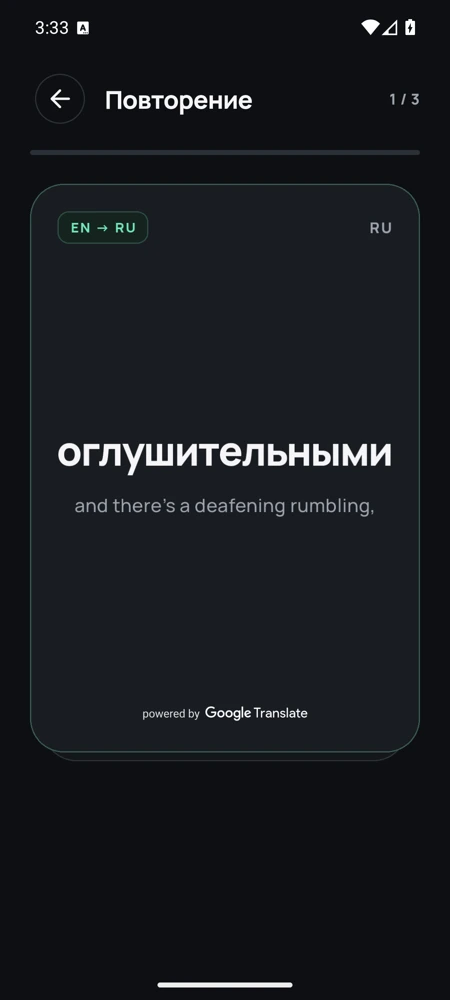
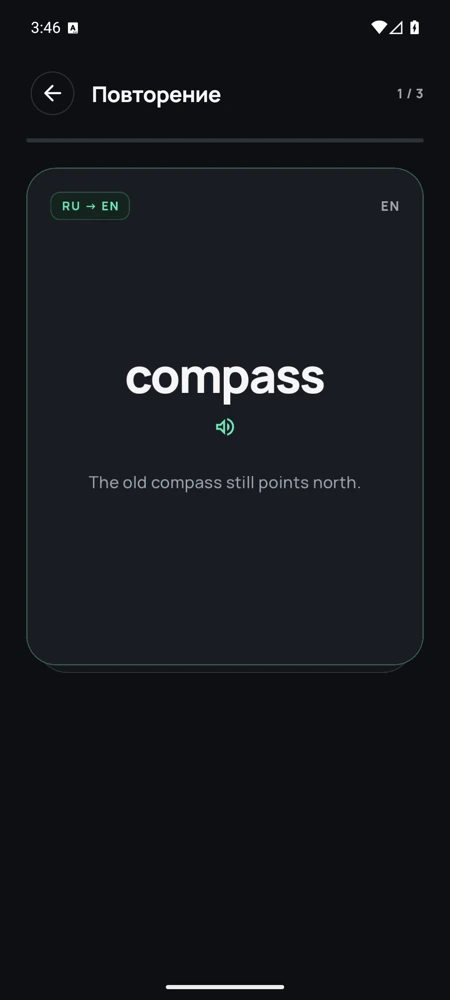
Add English pronunciation to review cards

diff --git a/lib/src/review_screen.dart b/lib/src/review_screen.dart
@@ -1,3 +1,4 @@
+import 'dart:async';
 import 'dart:math' as math;
 
 import 'package:flutter/material.dart';
@@ -11,9 +12,17 @@ import 'lexicon.dart';
 final _wordSeparator = RegExp(r'\s+');
 
 class ReviewScreen extends StatefulWidget {
-  const ReviewScreen({super.key, required this.queue, required this.onGrade});
+  const ReviewScreen({
+    super.key,
+    required this.queue,
+    required this.onGrade,
+    required this.onSpeak,
+    required this.onStopSpeech,
+  });
   final List<ReviewCard> queue;
   final Future<void> Function(ReviewCard, Grade) onGrade;
+  final Future<void> Function(String) onSpeak;
+  final Future<void> Function() onStopSpeech;
 
   @override
   State<ReviewScreen> createState() => _ReviewScreenState();
@@ -28,11 +37,13 @@ class _ReviewScreenState extends State<ReviewScreen>
   late final _slide = AnimationController.unbounded(vsync: this);
   int _index = 0;
   bool _submitting = false;
+  bool _speaking = false;
 
   bool get _revealComplete => _flip.isCompleted;
 
   @override
   void dispose() {
+    _stopSpeech();
     _flip.dispose();
     _slide.dispose();
     super.dispose();
@@ -40,12 +51,40 @@ class _ReviewScreenState extends State<ReviewScreen>
 
   void _reveal() {
     if (_submitting || _flip.value > 0) return;
+    _stopSpeech();
     HapticFeedback.selectionClick();
     if (MediaQuery.disableAnimationsOf(context)) {
       _flip.value = 1;
     } else {
       _flip.forward();
     }
+  }
+
+  Future<void> _speak(String word) async {
+    if (_speaking || _submitting || _flip.isAnimating) return;
+    setState(() => _speaking = true);
+    try {
+      await widget.onSpeak(word).timeout(const Duration(seconds: 15));
+    } on PlatformException catch (error) {
+      if (!mounted) return;
+      final message = switch (error.code) {
+        'TTS_VOICE' => 'Установите английский голос в настройках Android.',
+        'TTS_UNAVAILABLE' => 'Включите синтез речи в настройках Android.',
+        _ => 'Не удалось озвучить слово. Попробуйте ещё раз.',
+      };
+      notifyUser(context, message);
+    } on TimeoutException {
+      _stopSpeech();
+      if (mounted) {
+        notifyUser(context, 'Озвучка не запустилась. Попробуйте ещё раз.');
+      }
+    } finally {
+      if (mounted) setState(() => _speaking = false);
+    }
+  }
+
+  void _stopSpeech() {
+    if (_speaking) widget.onStopSpeech().ignore();
   }
 
   void _settle(double velocity) {
@@ -79,6 +118,7 @@ class _ReviewScreenState extends State<ReviewScreen>
 
   Future<void> _rate(Grade grade, double width, [double velocity = 0]) async {
     if (_submitting || !_revealComplete) return;
+    _stopSpeech();
     final card = widget.queue[_index];
     setState(() => _submitting = true);
     HapticFeedback.lightImpact();
@@ -279,6 +319,11 @@ class _ReviewScreenState extends State<ReviewScreen>
                             child: _CardFace(
                               card: card,
                               back: back,
+                              speaking: _speaking,
+                              onSpeak:
+                                  _speaking || _submitting || _flip.isAnimating
+                                  ? null
+                                  : () => _speak(card.entry.english),
                               highlight: (offset / width).abs().clamp(0.0, .5),
                               positive: offset > 0,
                             ),
@@ -314,11 +359,15 @@ class _CardFace extends StatelessWidget {
   const _CardFace({
     required this.card,
     required this.back,
+    required this.speaking,
+    required this.onSpeak,
     required this.highlight,
     required this.positive,
   });
   final ReviewCard card;
   final bool back;
+  final bool speaking;
+  final VoidCallback? onSpeak;
   final double highlight;
   final bool positive;
 
@@ -386,6 +435,19 @@ class _CardFace extends StatelessWidget {
                         ],
                       ),
                     ),
+                    if (code == 'EN')
+                      IconButton(
+                        tooltip: 'Озвучить английское слово',
+                        onPressed: onSpeak,
+                        color: mint,
+                        disabledColor: muted,
+                        icon: Icon(
+                          speaking
+                              ? Icons.volume_up_rounded
+                              : Icons.volume_up_outlined,
+                          size: 22,
+                        ),
+                      ),
                     if (back && card.entry.context.isNotEmpty) ...[
                       const SizedBox(height: 15),
                       Text(

diff --git a/android/app/src/main/kotlin/app/thinkcaps/android/EnglishSpeech.kt b/android/app/src/main/kotlin/app/thinkcaps/android/EnglishSpeech.kt
@@ -1,0 +1,113 @@
+package app.thinkcaps.android
+
+import android.content.Context
+import android.os.Handler
+import android.os.Looper
+import android.speech.tts.TextToSpeech
+import android.speech.tts.UtteranceProgressListener
+import io.flutter.plugin.common.MethodChannel
+import java.util.Locale
+
+internal class EnglishSpeech(private val context: Context) {
+    private data class Request(val word: String, val id: String, val result: MethodChannel.Result)
+
+    private val main = Handler(Looper.getMainLooper())
+    private var engine: TextToSpeech? = null
+    private var ready = false
+    private var active: Request? = null
+    private var sequence = 0
+
+    fun speak(word: String?, result: MethodChannel.Result) {
+        if (word.isNullOrBlank()) {
+            result.error("TTS_PLAYBACK", null, null)
+            return
+        }
+        stop()
+        active = Request(word, (++sequence).toString(), result)
+        if (ready) {
+            play()
+        } else if (engine == null) {
+            engine = TextToSpeech(context) { status ->
+                // An initialization failure may arrive during construction.
+                main.post { initialized(status) }
+            }
+        }
+    }
+
+    private fun initialized(status: Int) {
+        val tts = engine ?: return
+        if (status != TextToSpeech.SUCCESS ||
+            tts.setOnUtteranceProgressListener(listener) != TextToSpeech.SUCCESS
+        ) {
+            active?.let { finish(it.id, "TTS_UNAVAILABLE") }
+            close()
+            return
+        }
+        ready = true
+        play()
+    }
+
+    private fun play() {
+        val request = active ?: return
+        val tts = engine ?: return
+        if (tts.voice?.locale?.language != Locale.ENGLISH.language &&
+            tts.setLanguage(Locale.US) < TextToSpeech.LANG_AVAILABLE &&
+            tts.setLanguage(Locale.ENGLISH) < TextToSpeech.LANG_AVAILABLE
+        ) {
+            finish(request.id, "TTS_VOICE")
+            return
+        }
+        if (tts.speak(request.word, TextToSpeech.QUEUE_FLUSH, null, request.id) !=
+            TextToSpeech.SUCCESS
+        ) {
+            finish(request.id, "TTS_PLAYBACK")
+        }
+    }
+
+    private val listener = object : UtteranceProgressListener() {
+        override fun onStart(utteranceId: String) = Unit
+
+        override fun onDone(utteranceId: String) {
+            main.post { finish(utteranceId) }
+        }
+
+        override fun onStop(utteranceId: String, interrupted: Boolean) {
+            main.post { finish(utteranceId) }
+        }
+
+        @Deprecated("Required for engines that use the legacy error callback")
+        override fun onError(utteranceId: String) {
+            onError(utteranceId, TextToSpeech.ERROR_SYNTHESIS)
+        }
+
+        override fun onError(utteranceId: String, errorCode: Int) {
+            val code = if (errorCode == TextToSpeech.ERROR_NOT_INSTALLED_YET) {
+                "TTS_VOICE"
+            } else {
+                "TTS_PLAYBACK"
+            }
+            main.post { finish(utteranceId, code) }
+        }
+    }
+
+    private fun finish(id: String, error: String? = null) {
+        val request = active?.takeIf { it.id == id } ?: return
+        active = null
+        if (error == null) request.result.success(null)
+        else request.result.error(error, null, null)
+    }
+
+    fun stop() {
+        val request = active ?: return
+        active = null
+        if (ready) engine?.stop()
+        request.result.success(null)
+    }
+
+    fun close() {
+        stop()
+        ready = false
+        engine?.shutdown()
+        engine = null
+    }
+}

diff --git a/test/review_test.dart b/test/review_test.dart
@@ -17,16 +17,24 @@ void main() {
       reverse: fresh,
     );
     final ratings = <(Direction, Grade)>[];
+    final spoken = <String>[];
+    final speakButton = find.byTooltip('Озвучить английское слово');
     await tester.pumpWidget(
       MaterialApp(
         theme: appTheme(),
         home: ReviewScreen(
           queue: dueCards([entry], fresh.due),
           onGrade: (card, grade) async => ratings.add((card.direction, grade)),
+          onSpeak: (word) async => spoken.add(word),
+          onStopSpeech: () async {},
         ),
       ),
     );
     expect(find.text('curiosity'), findsOneWidget);
+    expect(find.text('любопытство'), findsNothing);
+    await tester.tap(speakButton);
+    await tester.pumpAndSettle();
+    expect(spoken, ['curiosity']);
     expect(find.text('любопытство'), findsNothing);
     await tester.fling(find.text('curiosity'), const Offset(280, 0), 650);
     await tester.pumpAndSettle();
@@ -35,6 +43,7 @@ void main() {
     await tester.pumpAndSettle();
     expect(find.text('любопытство'), findsOneWidget);
     expect(find.text(entry.context), findsOneWidget);
+    expect(speakButton, findsNothing);
     expect(find.byType(FilledButton), findsNothing);
     expect(find.byType(OutlinedButton), findsNothing);
     expect(find.textContaining('через'), findsNothing);
@@ -44,8 +53,12 @@ void main() {
     expect(find.text('RU → EN'), findsOneWidget);
     expect(find.text('любопытство'), findsOneWidget);
     expect(find.text('curiosity'), findsNothing);
+    expect(speakButton, findsNothing);
     await tester.tap(find.text('Показать перевод'));
     await tester.pumpAndSettle();
+    await tester.tap(speakButton);
+    await tester.pumpAndSettle();
+    expect(spoken, ['curiosity', 'curiosity']);
     await tester.fling(find.text('curiosity'), const Offset(-280, 0), 950);
     await tester.pumpAndSettle();
     expect(ratings, [
@@ -81,6 +94,8 @@ void main() {
         home: ReviewScreen(
           queue: [ReviewCard(entry, Direction.enToRu)],
           onGrade: (_, _) async {},
+          onSpeak: (_) async {},
+          onStopSpeech: () async {},
         ),
       ),
     );

diff --git a/android/app/src/main/kotlin/app/thinkcaps/android/MainActivity.kt b/android/app/src/main/kotlin/app/thinkcaps/android/MainActivity.kt
@@ -32,6 +32,7 @@ class MainActivity : FlutterActivity() {
     private var channel: MethodChannel? = null
     private var scanResult: MethodChannel.Result? = null
     private var modelDownload: Task<Void>? = null
+    private var speech: EnglishSpeech? = null
     private var translatorUsed = false
     private var recognizerUsed = false
 
@@ -47,6 +48,14 @@ class MainActivity : FlutterActivity() {
                 }
                 "scanScreenshot" -> openScreenshot(result)
                 "translate" -> translate(call.arguments as String, result)
+                "speakEnglish" -> {
+                    val voice = speech ?: EnglishSpeech(applicationContext).also { speech = it }
+                    voice.speak(call.arguments as? String, result)
+                }
+                "stopSpeech" -> {
+                    speech?.stop()
+                    result.success(null)
+                }
                 "loadEntries" -> disk(result) { database.entries() }
                 "saveEntry" -> disk(result) { database.save(call.arguments as Map<*, *>); null }
                 "removeEntry" -> disk(result) { database.remove(call.arguments as Number); null }
@@ -151,8 +160,14 @@ class MainActivity : FlutterActivity() {
         }
     }
 
+    override fun onPause() {
+        speech?.stop()
+        super.onPause()
+    }
+
     override fun onDestroy() {
         channel?.setMethodCallHandler(null)
+        speech?.close()
         if (translatorUsed) translator.close()
         if (recognizerUsed) recognizer.close()
         executor.execute { database.close() }

diff --git a/lib/main.dart b/lib/main.dart
@@ -150,7 +150,12 @@ class _HomeState extends State<_Home> with WidgetsBindingObserver {
     if (queue.isEmpty) return;
     await Navigator.of(context).push<void>(
       MaterialPageRoute(
-        builder: (_) => ReviewScreen(queue: queue, onGrade: _platform.grade),
+        builder: (_) => ReviewScreen(
+          queue: queue,
+          onGrade: _platform.grade,
+          onSpeak: _platform.speakEnglish,
+          onStopSpeech: _platform.stopSpeech,
+        ),
       ),
     );
     if (mounted) await _load();

diff --git a/lib/src/platform.dart b/lib/src/platform.dart
@@ -21,6 +21,11 @@ class ThinkCapsPlatform {
   Future<String?> scanScreenshot() =>
       _channel.invokeMethod<String>('scanScreenshot');
 
+  Future<void> speakEnglish(String word) =>
+      _channel.invokeMethod<void>('speakEnglish', word);
+
+  Future<void> stopSpeech() => _channel.invokeMethod<void>('stopSpeech');
+
   Future<String> translate(String word) async {
     final result = await _channel
         .invokeMethod<String>('translate', word)
